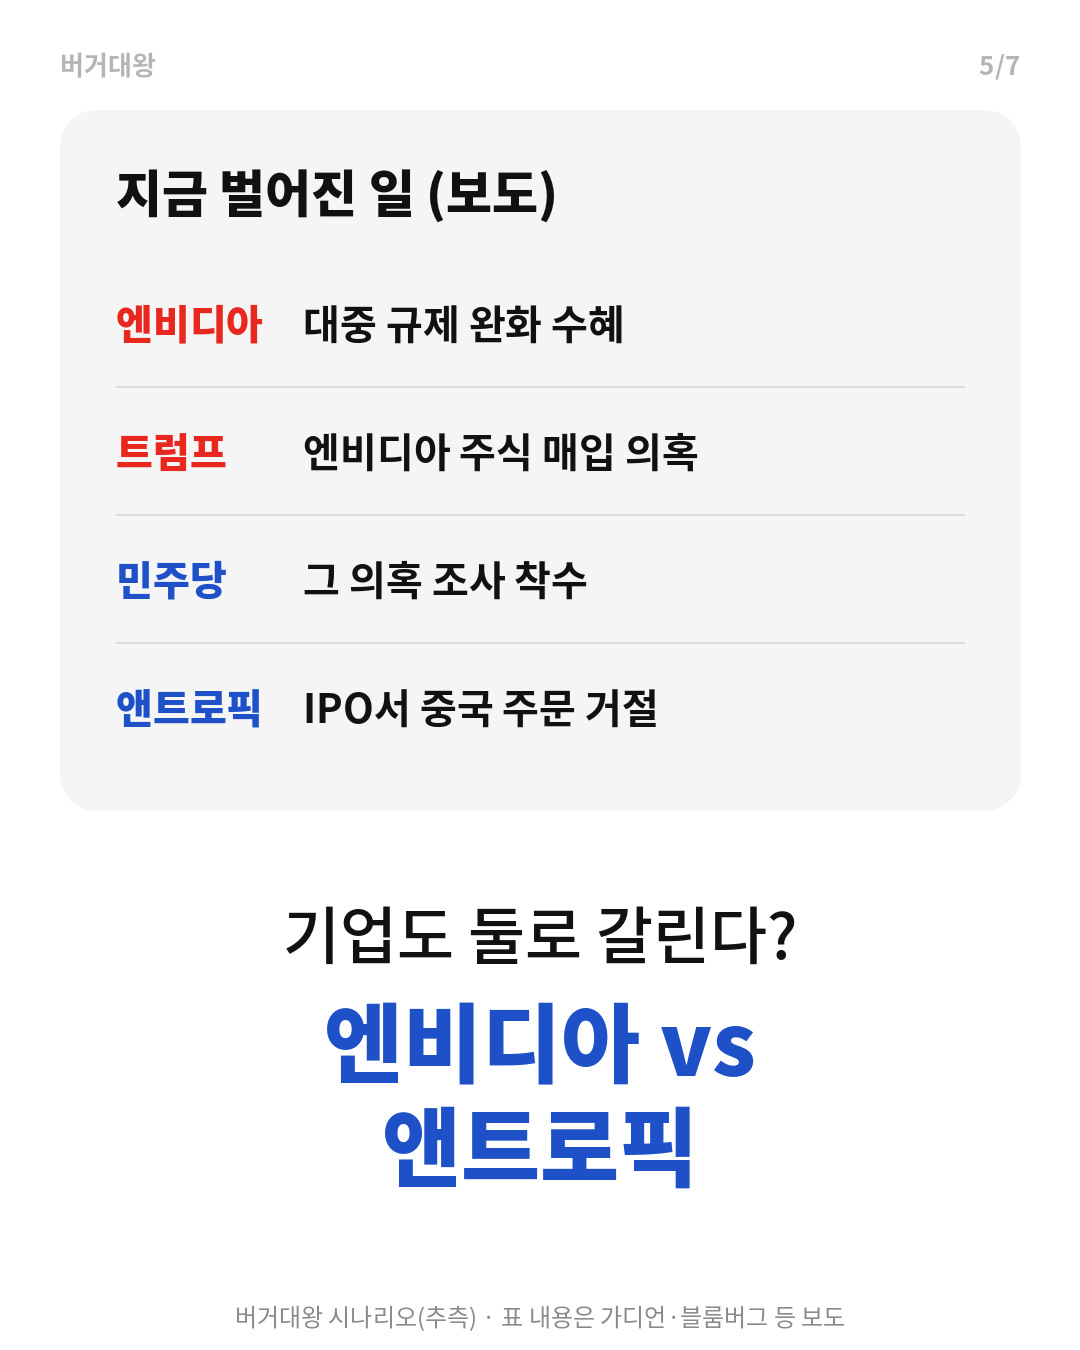
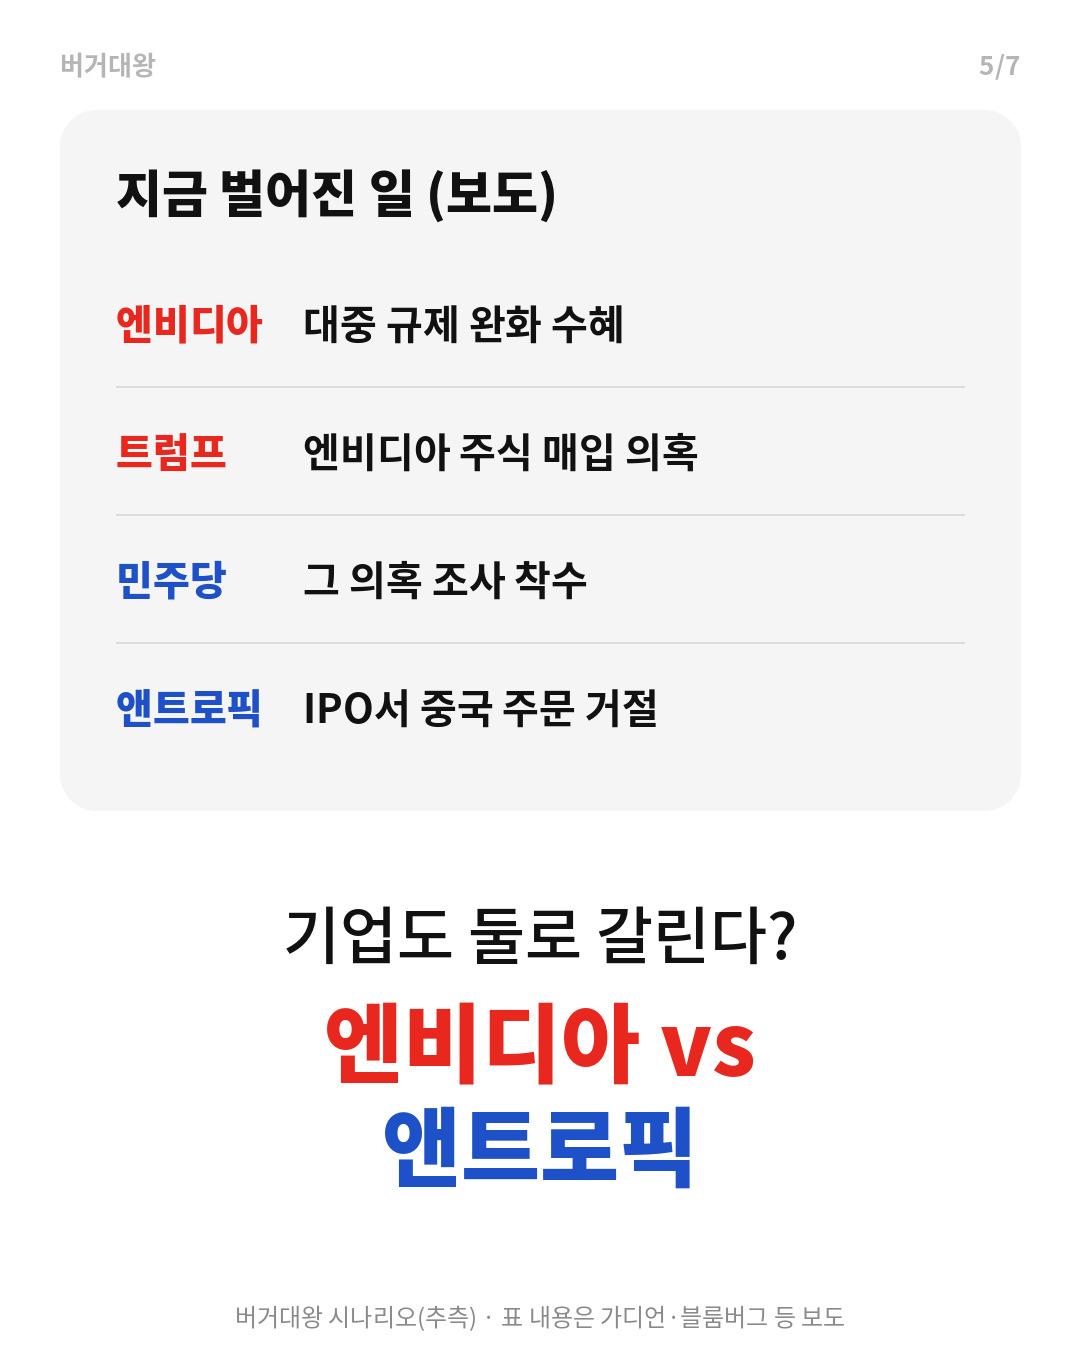
cards: 트럼프 vs 민주당 편 글자색 구분 (트럼프·엔비디아 빨강, 민주당·앤트로픽 파랑)
Claude-Session: https://claude.ai/code/session_01Sja1yVJANynNPcimdCgfwA

Changed region(s): [[0.3056, 0.7156, 0.7028, 0.8089]]

diff --git a/tools/cardnews.py b/tools/cardnews.py
@@ -20,6 +20,7 @@ spec.json 모양:
   "outro":  {"title": ["버거대왕", "팔로우"], "char": "bd25_팔로우부탁", "sub": "매일 장 마감 뒤 올라옵니다"},
   "mood": "down"
 }
+(선택) 표지 "colors": ["red","blue"], 가운데 장 "colors": ["red","blue"] 로 줄마다 글자색을 바꿀 수 있다.
 """
 from __future__ import annotations
 import glob, hashlib, json, os, subprocess, sys
@@ -238,9 +239,10 @@ def cover(spec, n) -> Image.Image:
     title = cv["title"] if isinstance(cv["title"], list) else [cv["title"]]
     f, s = fit(dr, title, "Black", 300 if len(title) == 1 else 220, W - 110, 110)
     y = 70
-    for l in title:
+    cols = cv.get("colors") or []                       # 줄마다 색 (예: ["red", "blue"]), 없으면 빨강
+    for k, l in enumerate(title):
         bb = dr.textbbox((0, 0), l, font=f)
-        center(dr, y - bb[1], l, f, RED)
+        center(dr, y - bb[1], l, f, {"red": RED, "blue": BLUE, "ink": INK}.get(cols[k] if k < len(cols) else "red", RED))
         y += (bb[3] - bb[1]) + int(s * 0.16)
     if cv.get("sub"):
         fs, ss = fit(dr, [cv["sub"]], "Black", 64, W - 140, 36)
@@ -277,9 +279,11 @@ def body(sl, i, n) -> Image.Image:
     bb = dr.textbbox((0, 0), sl["top"], font=ft)
     center(dr, y - bb[1], sl["top"], ft, INK)
     y += st + 34
-    for l in main:
+    cols = sl.get("colors") or []                       # 굵은 줄마다 색 (예: ["red", "blue"])
+    for k, l in enumerate(main):
         bb = dr.textbbox((0, 0), l, font=fm)
-        center(dr, y - bb[1], l, fm, sl.get("color") and {"red": RED, "blue": BLUE}[sl["color"]] or BLUE)
+        col = cols[k] if k < len(cols) else sl.get("color", "blue")
+        center(dr, y - bb[1], l, fm, {"red": RED, "blue": BLUE, "ink": INK}.get(col, BLUE))
         y += gap
     if sl.get("note"):
         fn, _ = fit(dr, [sl["note"]], "Regular", 24, W - 100, 16)
